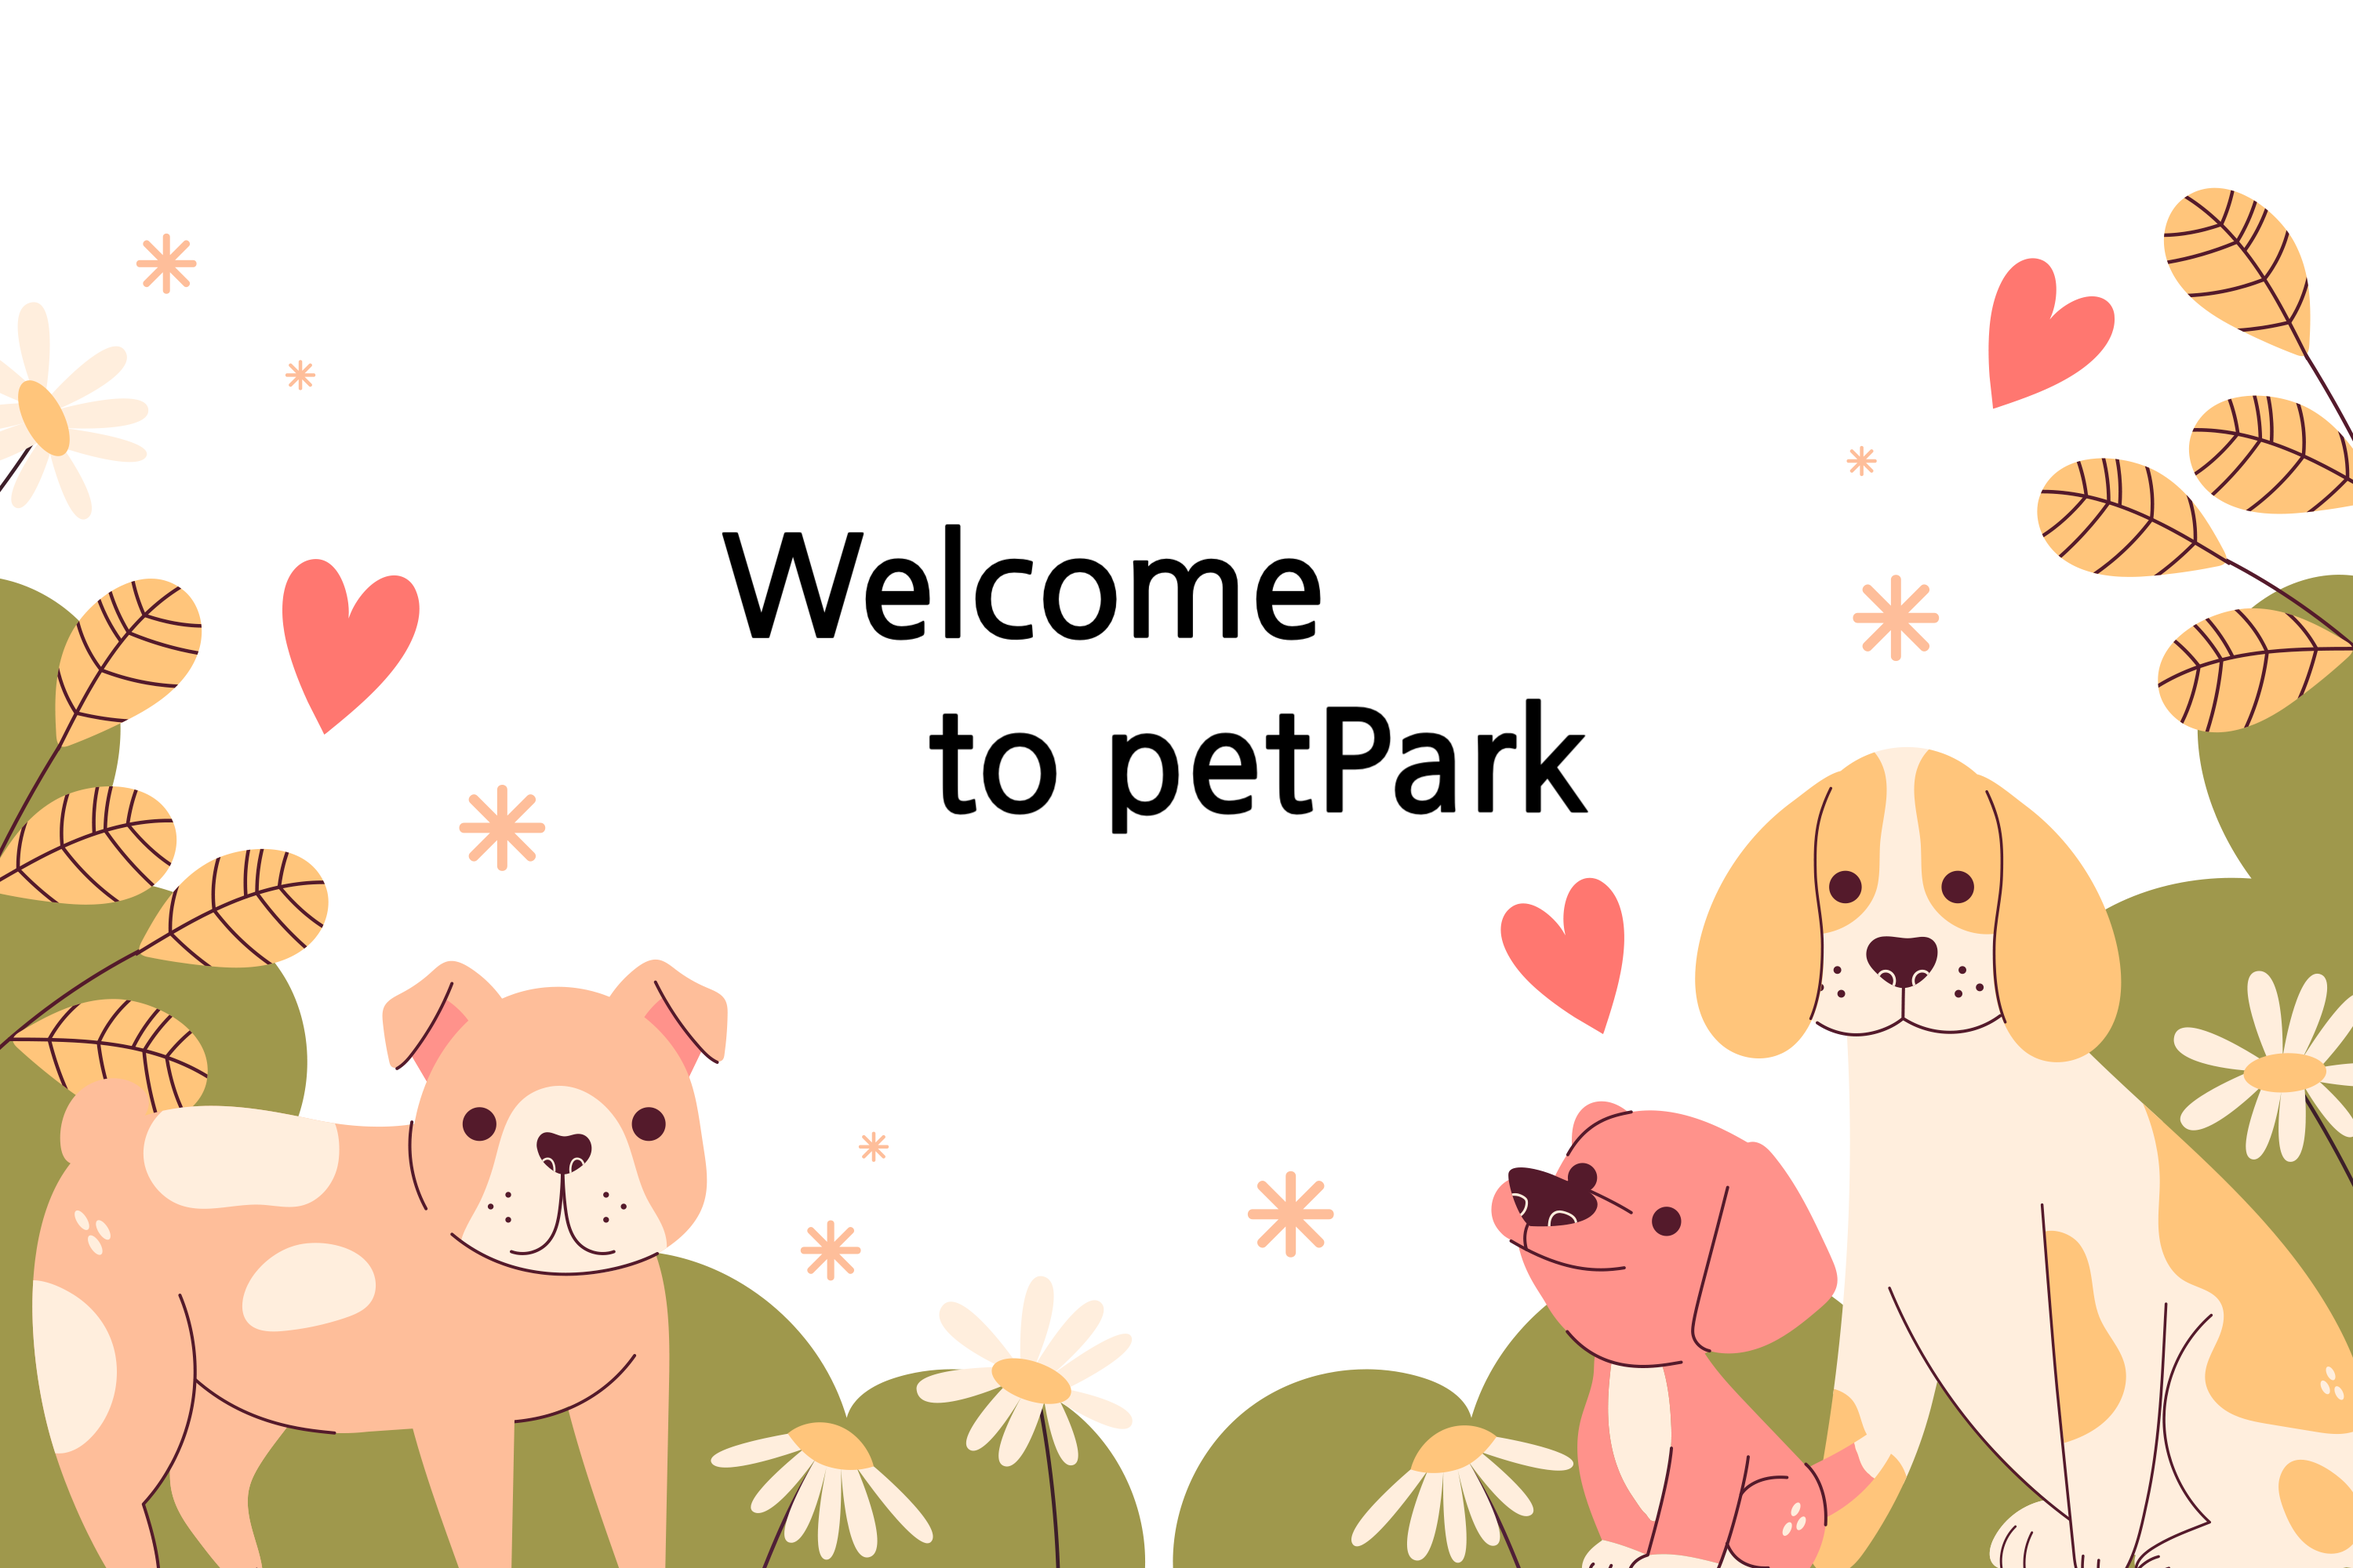
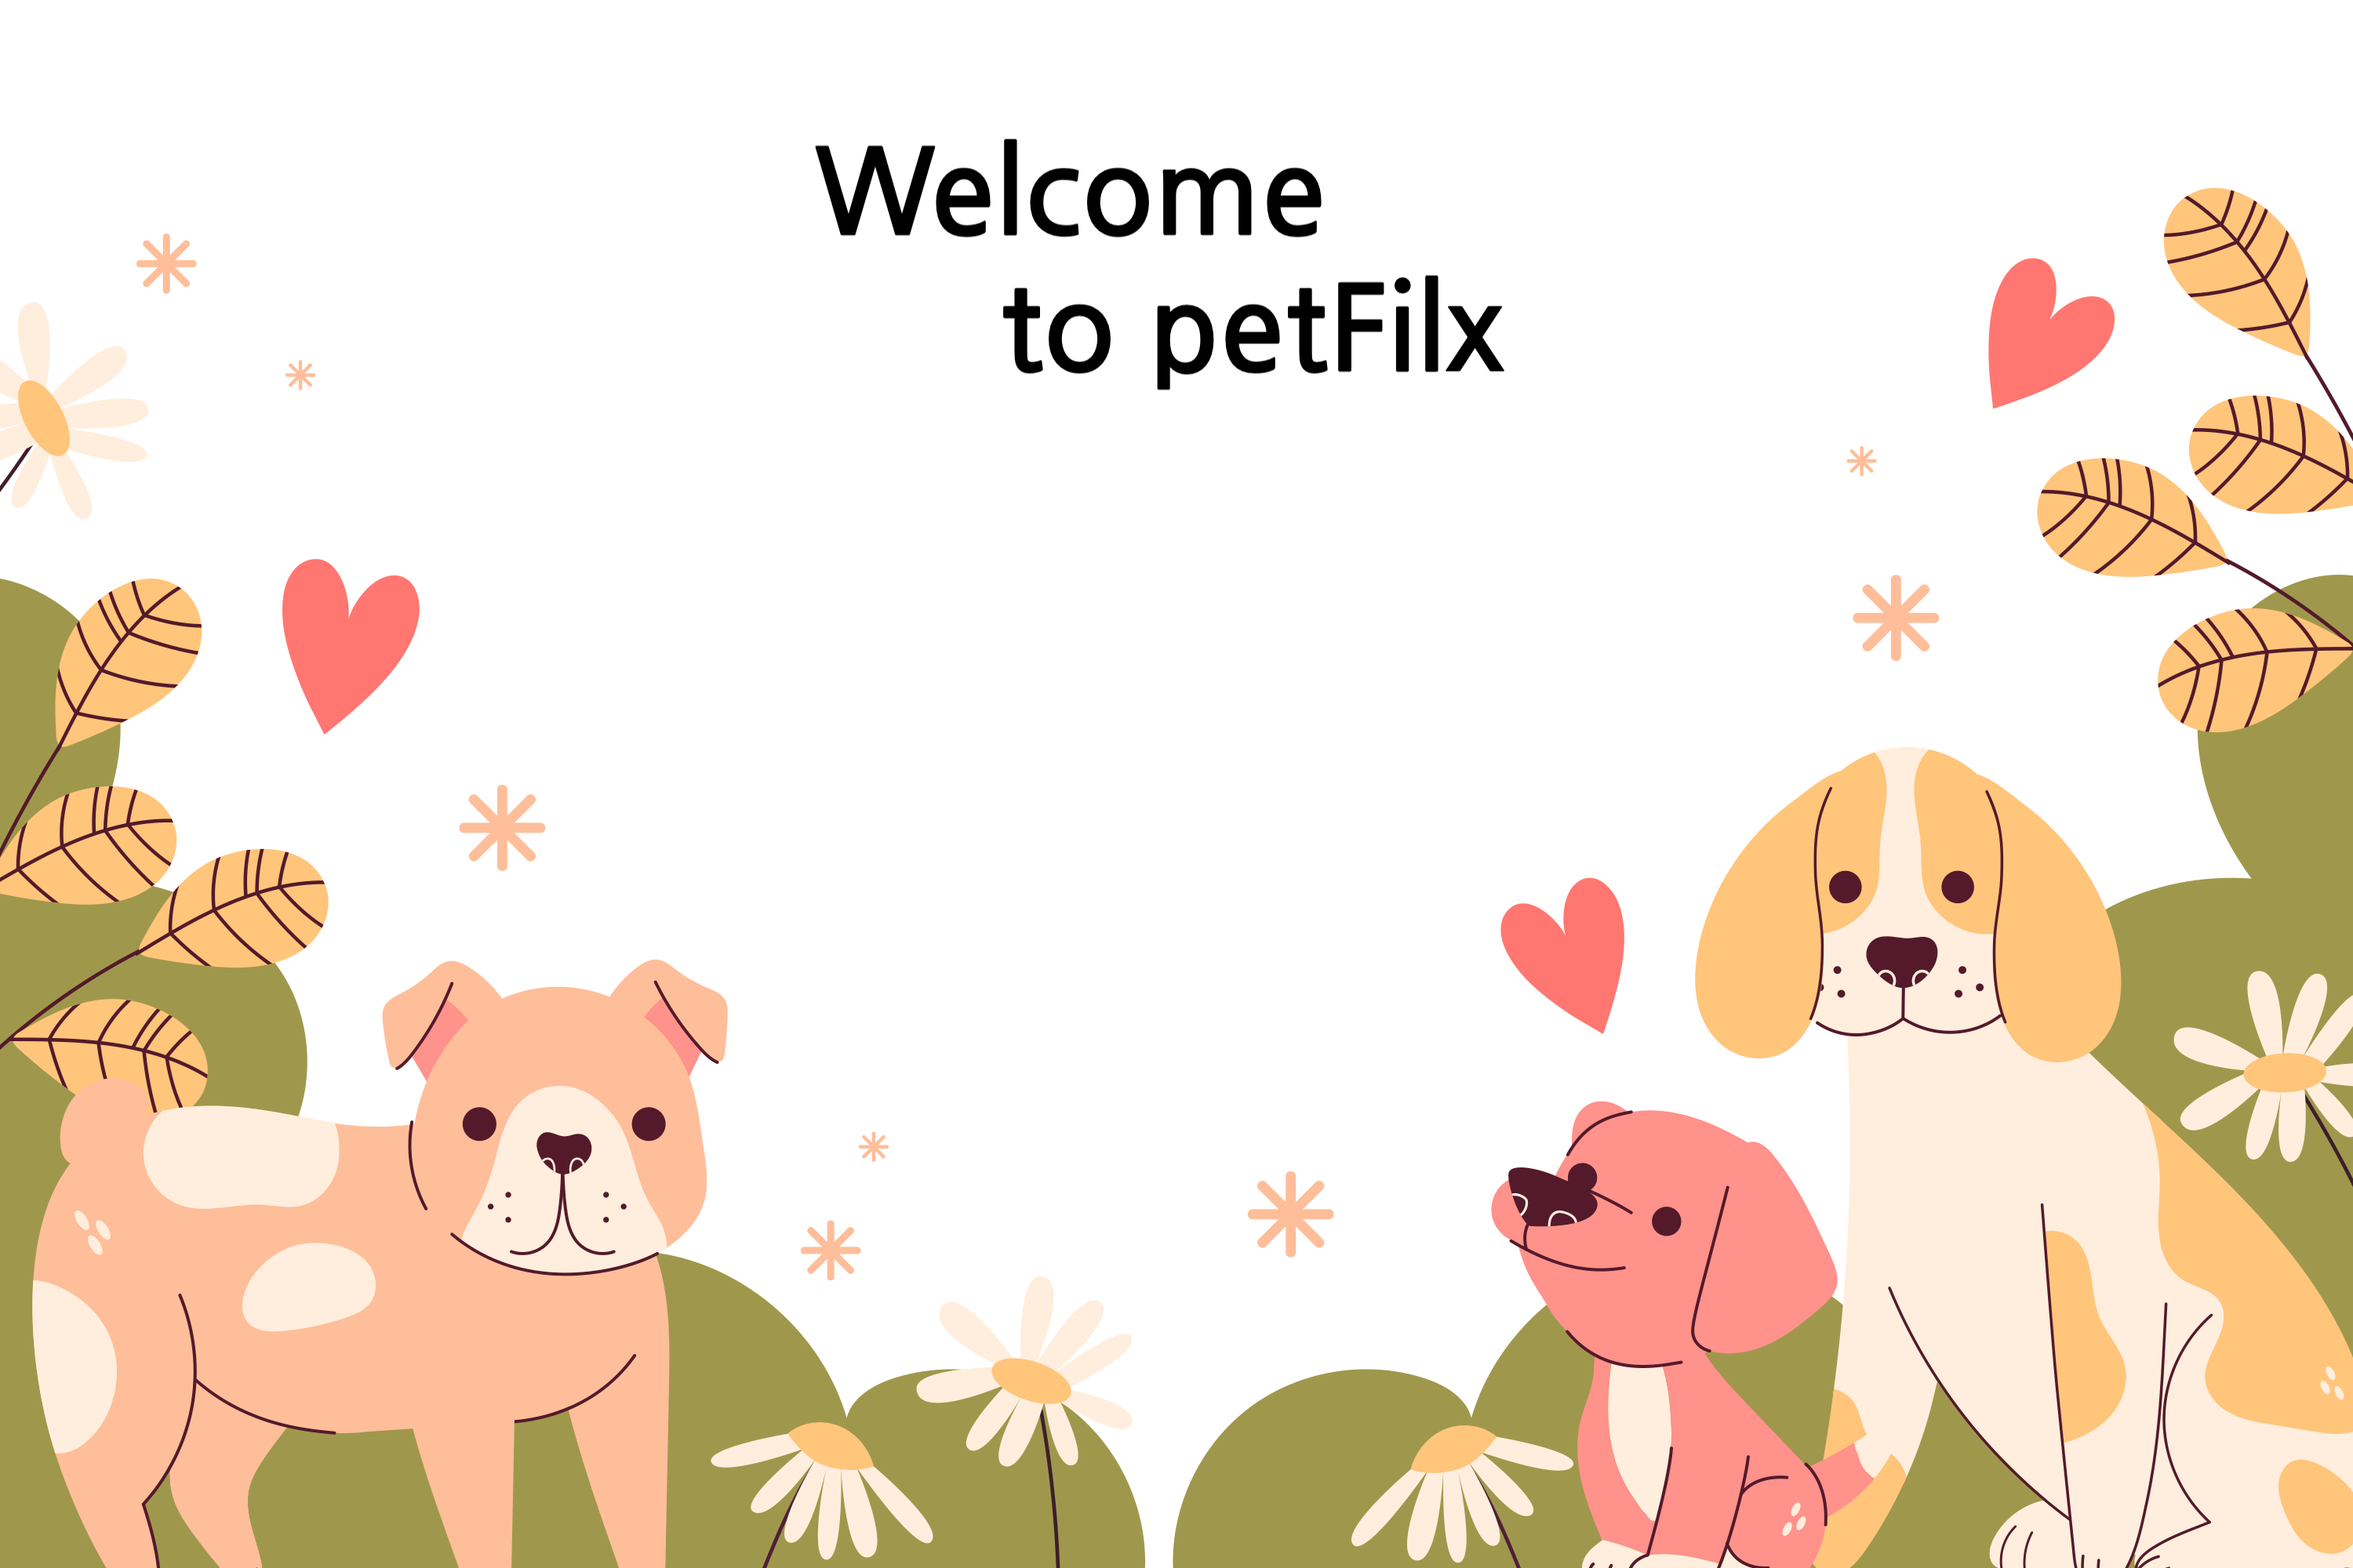
수정

diff --git a/src/MainPage/index.css b/src/MainPage/index.css
@@ -1,31 +1,63 @@
 .maincomtents{
-    display: flex;
     background-color: #f4e4e4;
     background-size: cover;
     background-position: center;
 }
-.picket-container{
+.picket-container {
     position: relative;
-    width: 170px;
-    margin: 48px 0 0 10px;
-    padding: 10px;
+    top: -300px;
+    width: 380px;
+    left: 50%;
+    transform: translate(-50%, -50%);
+    padding: 0 30px 0 30px ;
     background: #FFBE98;
-    border-top: 5px solid #f4e4e4;
-    border-bottom: 5px solid #f4e4e4;
+    border-radius: 20px;
 }
 .piket{
+    padding: 15px;
     display: flex;
     flex-direction: column;
     align-items: center;
+}
+.piket h3{
+    margin:0;
+}
+.piket span{
+    margin-bottom: 5px;
 }
 .textbox{
     text-align: center;
 }
 .resultbtn{
-    position: relative;
-    right: -57px;
-    margin: 5px;
+    margin-top: 10px;
     border: none;
     border-radius: 5px;
     background-color: white;
 }
+@media (max-width: 500px) {
+    .piket h3,
+    .piket span,
+    .piket input,
+    .piket button {
+      font-size: 0.55rem; /* 너비가 줄어들 때 폰트 크기를 줄임 */
+    }
+    .piket{
+        padding: 0;
+    }
+    .picket-container {
+        width: 160px;
+        top: -170px;
+        height: 50px;
+        border-radius: 10px;
+    }
+    .resultbtn,
+    .textbox{
+        transform: scale(0.65);
+    }
+    .textbox{
+        margin-top: -9px;
+    }
+    .resultbtn{
+        margin-top: -4px;
+    }
+  }

diff --git a/src/components/Popup/index.css b/src/components/Popup/index.css
@@ -1,11 +1,11 @@
-.popup {
+.popup{
     position: fixed;
     top: 50%;
     left: 50%;
     transform: translate(-50%, -50%);
     background-color: #f4e4e4;
-    padding: 20px;
     border-radius: 10px;
+    padding: 20px;
     box-shadow: 0 0 15px rgba(0, 0, 0, 1);
   }
   .popup span{
@@ -21,4 +21,37 @@
     width: 200px;
     border-radius: 50px;
     border: 5px solid #f08080;
+  }
+  .closebtn{
+    position: relative;
+    right: -45%;
+    background-color: #f08080;
+    color: white;
+    border: none;
+    border-radius: 5px;
+    font-size: 1.15rem;
+  }
+  @media (max-width: 500px) {
+    .popup h2,
+    .popup h3,
+    .popup p,
+    .closebtn{
+      font-size: 0.5rem;
+      margin: 10px 10px 0 10px;
+    }
+    .dogimg{
+      width: 120px;
+      margin: 10px;
+    }
+    .popup{
+      height: 400px;
+      margin: 0;
+      padding: 0;
+    }
+    .closebtn{
+      right: -40%;
+    }
+    .popup{
+      top: 30%;
+    }
   }

diff --git a/src/MainPage/index.jsx b/src/MainPage/index.jsx
@@ -1,6 +1,6 @@
 import React, { useState } from 'react';
 import Popup from '../components/Popup';
-import mainimg from '../img/mainimg.png';
+import mainimg from '../img/Mainimg.png';
 import './index.css';
 
 function Main() {
@@ -32,15 +32,17 @@ function Main() {
           src={mainimg}
           alt='메인이미지'
           style={{
-            width: '77vw',
+            width: '100%',
             maxHeight: '500px',
-            margin: '48px 0 0 10px',
+            marginTop: '48px',
+            backgroundPosition:'center'
           }}
         />
       </div>
       <div className='picket-container'>
         <div className='piket'>
-          <h3>자신의 'MBTI' 를 입력하고 반려견을 추천받으세요!</h3>
+          <h3>자신의 'MBTI' 를 입력하고,</h3>
+          <span>반려견을 추천받으세요!</span>
           <input
             autoComplete='off'
             type='text'

diff --git a/src/components/Popup/index.jsx b/src/components/Popup/index.jsx
@@ -22,6 +22,7 @@ function Popup({ mbti, onClose }) {
     return (
       <div className='popup'>
         <div className='popup-info'>
+        <button onClick={onClose} className='closebtn'>X</button>
           <h2>" <span>{mbti}</span> "의 추천 반려견은</h2>
           <h3>" <span>{recommendedPet.petName}</span> " 입니다.</h3>
           <img
@@ -31,7 +32,6 @@ function Popup({ mbti, onClose }) {
           />
           <p>설명:</p>
           <p><span>{recommendedPet.petContent}</span></p>
-          <button onClick={onClose}>닫기</button>
         </div>
       </div>
     );

diff --git a/src/components/Header/index.css b/src/components/Header/index.css
@@ -26,13 +26,18 @@
     list-style-type: none;
     text-decoration-line: none;
 }
-.header-menu ul li{
-    margin-right: 35px;
-}
 .header-menu ul a{
     text-decoration-line: none;
     color: white;
     font-weight: 800;
+    padding: 5px 15px 5px 15px;
+    margin-right: 15px;
+    border-radius: 5px;
+    background-color: #f08080;
+}
+.header-menu ul a:hover{
+    transform: scale(1.1);
+    opacity: 0.8;
 }
 
 /*햄버거바*/

diff --git a/src/components/Header/index.jsx b/src/components/Header/index.jsx
@@ -6,7 +6,7 @@ function Header() {
   return (
     <div className='header-content'>
         <Link to={'/'} className='header-title'>
-            <span>pet</span>Park
+            <span>pet</span>Filx
         </Link>
         <div className='header-menu'>
             <ul className='header-menu_ul'>
